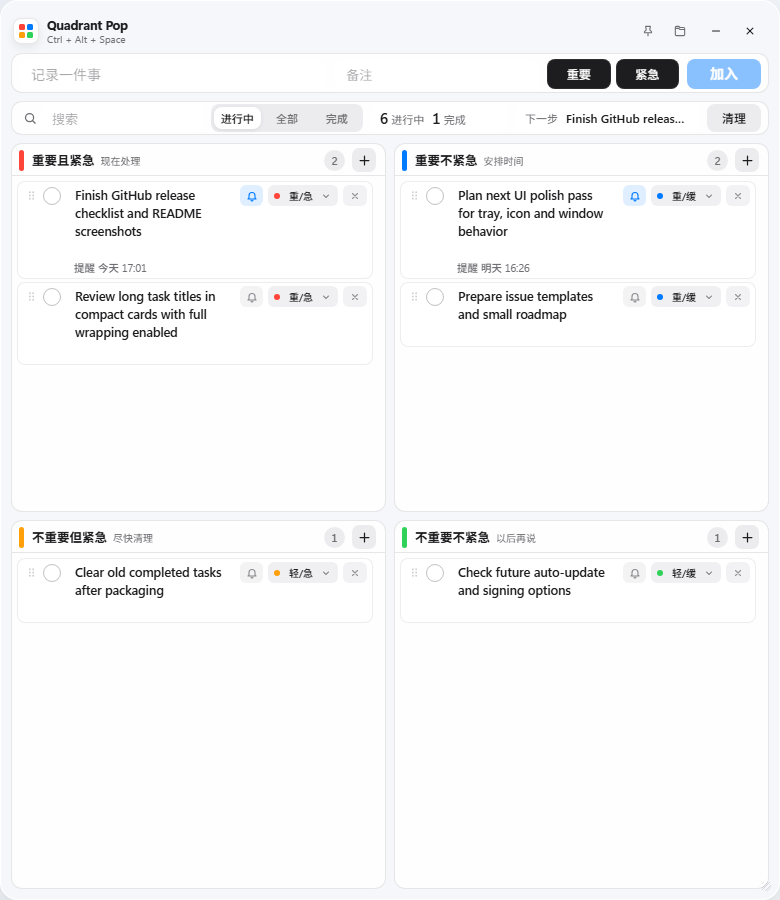
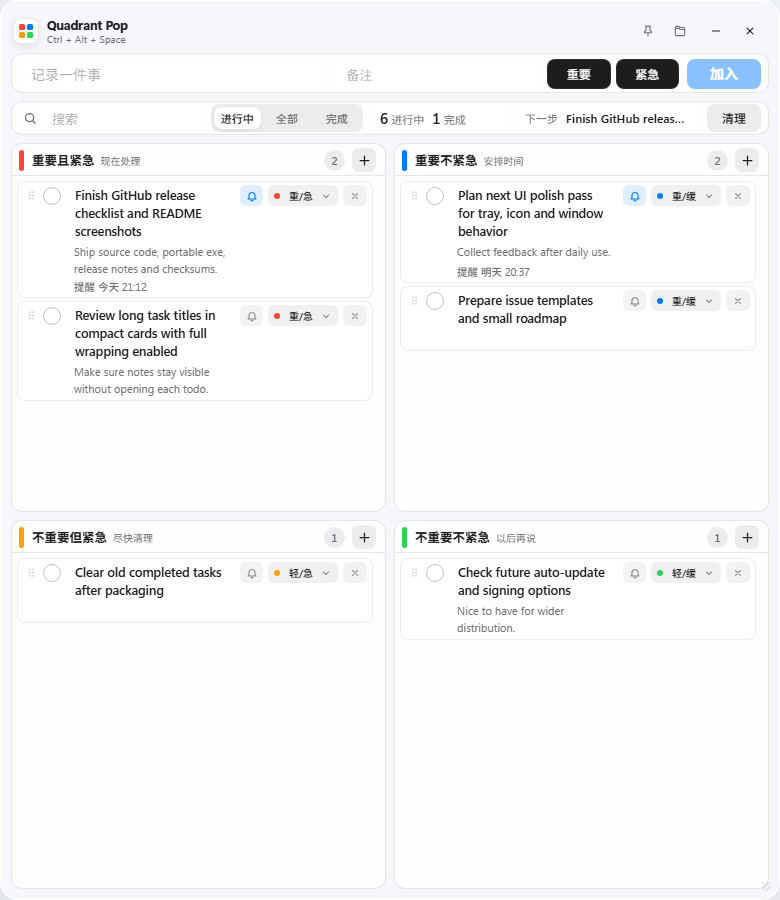
Show todo notes on cards

diff --git a/src/styles.css b/src/styles.css
@@ -755,6 +755,10 @@ main {
   align-self: start;
 }
 
+.task-card.has-note .task-body {
+  gap: 2px;
+}
+
 .task-title {
   height: auto;
   min-height: 21px;
@@ -797,6 +801,14 @@ main {
     border-color 140ms ease;
 }
 
+.task-card.has-note .task-note {
+  max-height: none;
+  opacity: 1;
+  pointer-events: auto;
+  transform: translateY(0);
+  background: transparent;
+}
+
 .task-card.expanded {
   background: rgba(255, 255, 255, 0.98);
   border-color: rgba(0, 122, 255, 0.34);
@@ -811,6 +823,7 @@ main {
   opacity: 1;
   pointer-events: auto;
   transform: translateY(0);
+  background: rgba(255, 255, 255, 0.86);
 }
 
 .task-meta {

diff --git a/src/index.html b/src/index.html
@@ -4,7 +4,7 @@
     <meta charset="UTF-8" />
     <meta name="viewport" content="width=device-width, initial-scale=1.0" />
     <title>Quadrant Pop Todo</title>
-    <link rel="stylesheet" href="./styles.css?v=0.2.1" />
+    <link rel="stylesheet" href="./styles.css?v=0.2.2" />
   </head>
   <body>
     <div class="app-shell">

diff --git a/README.md b/README.md
@@ -14,6 +14,7 @@
 - **鼠标位置弹出**：窗口会贴近当前鼠标位置，并自动保持在屏幕范围内。
 - **四象限待办**：按“重要/紧急”整理为四个象限，适合临时记录和快速决策。
 - **完整显示文字**：待办标题支持自动换行，不会因为过长而截断。
+- **备注直接可见**：有备注的待办会在卡片里直接显示备注，不需要先点开。
 - **定时提醒**：每条待办都可以设置提醒时间，到点自动弹窗提醒。
 - **拖动排序**：在同一个象限内拖动待办，可以调整优先级顺序。
 - **本地优先**：数据保存在本机 JSON 文件中，不需要账号，不会上传到云端。

diff --git a/CHANGELOG.md b/CHANGELOG.md
@@ -1,5 +1,10 @@
 # Changelog
 
+## v0.2.2 - 2026-05-22
+
+- Show todo notes directly on task cards when a note exists.
+- Keep empty-note tasks compact while preserving click-to-edit behavior.
+
 ## v0.2.1 - 2026-05-22
 
 - Added task reminders with due-time popup, snooze, dismiss, and mark-done actions.
